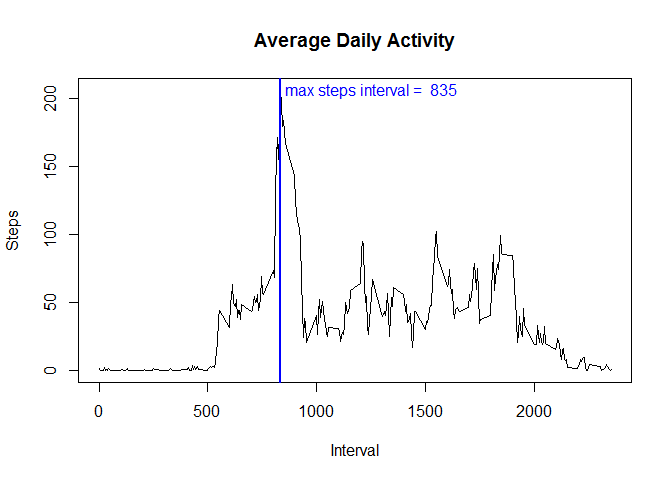
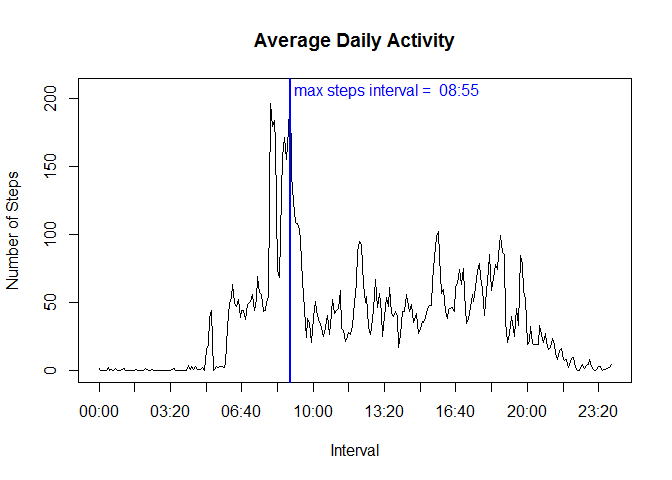
Fixed interval values; Fixed not averaging days for weekend/weekend graph.

diff --git a/PA1_template.html b/PA1_template.html
@@ -66,7 +66,22 @@ img {
 
 <div id="loading-and-preprocessing-the-data" class="section level2">
 <h2>Loading and preprocessing the data</h2>
-<pre class="r"><code>activityData &lt;- read.csv('activity/activity.csv', na.strings = &quot;NA&quot;)</code></pre>
+<p>Load the data and add a new column called intervalTime. intervalTime is cleaned version of interval.</p>
+<pre class="r"><code>ORIGIN = &quot;2015-10-21&quot;
+TZ = &quot;UTC&quot;
+activityData &lt;- read.csv('activity/activity.csv', na.strings = &quot;NA&quot;)
+
+setIntervalTime &lt;- function(row) {
+  totalMinutes &lt;- as.integer(row[3])
+  hours &lt;- totalMinutes %/% 100
+  minutes &lt;- totalMinutes %% 60
+  
+  timeStr &lt;- sprintf(&quot;%02d:%02d&quot;, hours, minutes) 
+  intervalTime_lt &lt;- strptime(timeStr, &quot;%H:%M&quot;)
+  return(as.POSIXct(intervalTime_lt, origin = ORIGIN, tz = TZ))
+}
+
+activityData$intervalTime &lt;- apply(activityData, 1, setIntervalTime)</code></pre>
 </div>
 <div id="what-is-mean-total-number-of-steps-taken-per-day" class="section level2">
 <h2>What is mean total number of steps taken per day?</h2>
@@ -74,39 +89,49 @@ img {
                                FUN=sum, na.rm = TRUE)
 colnames(activityDataByDay)[2] &lt;- 'steps'
 
-hist(activityDataByDay$steps, main = &quot;Histogram of the Mean Steps by Day&quot;, xlab='Steps')
+hist(activityDataByDay$steps, main = &quot;Histogram of the Mean Steps by Day&quot;, xlab='Number of Steps')
 legend(&quot;topright&quot;, c(&quot;mean&quot;, &quot;median&quot;), col=c(&quot;blue&quot;, &quot;red&quot;), lwd=2, lty=c(1,2))
 
 meanStepsPerDay &lt;- mean(activityDataByDay$steps, na.rm = TRUE)
 abline(v = meanStepsPerDay, col = &quot;blue&quot;, lwd = 2)
 text(20, x=meanStepsPerDay, pos = 2, offset = 0.1, col = &quot;blue&quot;,
-     paste('mean = ', format(meanStepsPerDay, digits = 7)))
+     paste('mean = ', format(round(meanStepsPerDay, 2), nsmall = 2)))
 
 medianStepsPerDay &lt;- median(activityDataByDay$steps, na.rm = TRUE)
 abline(v = medianStepsPerDay, col = &quot;red&quot;, lwd = 2, lty=2)
 text(15, x=medianStepsPerDay, pos = 4, offset = 0.1, col = &quot;red&quot;,
-     paste('median = ', format(medianStepsPerDay, digits = 7)))</code></pre>
[1 lines of base64/hex data omitted]
+     paste('median = ', format(round(medianStepsPerDay, 2), nsmall = 2)))</code></pre>
[1 lines of base64/hex data omitted]
 <p>The mean is 9354.23 and the median is 10395.</p>
 </div>
 <div id="what-is-the-average-daily-activity-pattern" class="section level2">
 <h2>What is the average daily activity pattern?</h2>
 <pre class="r"><code>activityDataByInterval &lt;- aggregate(activityData$steps, 
-                                    by=list(interval = activityData$interval), 
+                                    by=list(intervalTime = activityData$intervalTime), 
                                     FUN=mean, na.rm = TRUE)
 colnames(activityDataByInterval)[2] &lt;- 'steps'
 
 maxIntervalSteps &lt;- max(activityDataByInterval$steps)
 maxIntervalStepsIdx &lt;- which.max(activityDataByInterval$steps) 
-maxInterval &lt;- activityDataByInterval$interval[maxIntervalStepsIdx]
+maxIntervalTime &lt;- activityDataByInterval$intervalTime[maxIntervalStepsIdx]
+maxIntervalStr &lt;- sprintf(&quot;%s&quot;, format(as.POSIXct(maxIntervalTime, 
+                                            origin = ORIGIN, tz = TZ), &quot;%H:%M&quot;))
 
-plot(x = activityDataByInterval$interval, y = activityDataByInterval$steps, type=&quot;l&quot;,
-      main = &quot;Average Daily Activity&quot;, xlab = &quot;Interval&quot;, ylab = &quot;Steps&quot;)
-abline(v = maxInterval, col = &quot;blue&quot;, lwd = 2)
-text(maxIntervalSteps, x=maxInterval, pos = 4, offset = 0.25, col = &quot;blue&quot;,
-     paste('max steps interval = ', format(maxInterval, digits = 7)))</code></pre>
[1 lines of base64/hex data omitted]
-<p>The max number of steps is 206.17 at interval, 835.</p>
+plot(x = activityDataByInterval$intervalTime, 
+     y = activityDataByInterval$steps, type=&quot;l&quot;, xaxt=&quot;n&quot;,
+    main = &quot;Average Daily Activity&quot;, xlab = &quot;Interval&quot;, ylab = &quot;Number of Steps&quot;)
+
+xaxis &lt;- activityDataByInterval$intervalTime[seq(1, 
+                                                 length(activityDataByInterval$intervalTime), 20)]
+axis(1, at=xaxis,
+     labels=sprintf(&quot;%s&quot;, format(as.POSIXct(xaxis, 
+                                            origin = ORIGIN, tz = TZ), &quot;%H:%M&quot;)))
+
+abline(v = maxIntervalTime, col = &quot;blue&quot;, lwd = 2)
+text(maxIntervalSteps, x=maxIntervalTime, pos = 4, offset = 0.25, col = &quot;blue&quot;,
+     paste('max steps interval = ', maxIntervalStr))</code></pre>
[1 lines of base64/hex data omitted]
+<p>The maximum number of steps is 206.17 at interval, 08:55.</p>
 </div>
 <div id="imputing-missing-values" class="section level2">
 <h2>Imputing missing values</h2>
@@ -126,11 +151,11 @@ text(maxIntervalSteps, x=maxInterval, pos = 4, offset = 0.25, col = &quot;blue&q
 ## 
 ##     intersect, setdiff, setequal, union</code></pre>
 <pre class="r"><code>activityDataByInterval &lt;- aggregate(activityData$steps, 
-                                    by=list(interval = activityData$interval), 
+                                    by=list(intervalTime = activityData$intervalTime), 
                                     FUN=mean, na.rm = TRUE)
 colnames(activityDataByInterval)[2] &lt;- 'meanSteps'
 
-activityData2 &lt;- merge(activityData, activityDataByInterval, by=&quot;interval&quot;)
+activityData2 &lt;- merge(activityData, activityDataByInterval, by=&quot;intervalTime&quot;)
 activityData2 &lt;- mutate(activityData2, imputedSteps = ifelse(is.na(steps), meanSteps, steps))</code></pre>
 <p>Plot histogram.</p>
 <pre class="r"><code>activityDataByDay2 &lt;- aggregate(activityData2$imputedSteps, 
@@ -155,8 +180,6 @@ text(15, x=medianStepsPerDay, pos = 4, offset = 0.1, col = &quot;red&quot;,
 </div>
 <div id="are-there-differences-in-activity-patterns-between-weekdays-and-weekends" class="section level2">
 <h2>Are there differences in activity patterns between weekdays and weekends?</h2>
-<pre class="r"><code>library(lubridate)</code></pre>
-<pre><code>## Warning: package 'lubridate' was built under R version 3.2.1</code></pre>
 <pre class="r"><code>isWeekday &lt;- function(d) {
   day &lt;- weekdays(as.Date(d, format=&quot;%Y-%m-%d&quot;))
 
@@ -170,10 +193,22 @@ text(15, x=medianStepsPerDay, pos = 4, offset = 0.1, col = &quot;red&quot;,
 activityData2$dayType = sapply(activityData$date, isWeekday)
 
 library(lattice) 
-xyplot(activityData2$imputedSteps~activityData2$interval|activityData2$dayType, 
-   ylab=&quot;Number of Steps&quot;, xlab=&quot;Interval&quot;, type=&quot;l&quot;,
-   layout = c(1,2))</code></pre>
[1 lines of base64/hex data omitted]
+
+xaxis &lt;- activityData2$intervalTime[seq(1, length(activityData2$intervalTime), 2110)]
+xaxisFormatted &lt;- sprintf(&quot;%s&quot;, format(as.POSIXct(xaxis, 
+                                            origin = ORIGIN, tz = TZ), &quot;%H:%M&quot;))
+                          
+scales &lt;-list(
+     x = list(
+            at = xaxis,
+            labels = xaxisFormatted))                            
+
+xyplot(activityData2$imputedSteps~activityData2$intervalTime|activityData2$dayType, 
+   ylab=&quot;Number of Steps&quot;, xlab=&quot;Interval&quot;, type=&quot;l&quot;, layout = c(1,2)
+   ,
+   scales = scales
+   )</code></pre>
[1 lines of base64/hex data omitted]
 </div>
 
 

diff --git a/PA1_template.md b/PA1_template.md
@@ -2,9 +2,25 @@
 
 
 ## Loading and preprocessing the data
+Load the data and add a new column called intervalTime. intervalTime is cleaned version
+of interval.
 
 ```r
+ORIGIN = "2015-10-21"
+TZ = "UTC"
 activityData <- read.csv('activity/activity.csv', na.strings = "NA")
+
+setIntervalTime <- function(row) {
+  totalMinutes <- as.integer(row[3])
+  hours <- totalMinutes %/% 100
+  minutes <- totalMinutes %% 60
+  
+  timeStr <- sprintf("%02d:%02d", hours, minutes) 
+  intervalTime_lt <- strptime(timeStr, "%H:%M")
+  return(as.POSIXct(intervalTime_lt, origin = ORIGIN, tz = TZ))
+}
+
+activityData$intervalTime <- apply(activityData, 1, setIntervalTime)
 ```
 
 
@@ -15,18 +31,18 @@ activityDataByDay <- aggregate(activityData$steps, by=list(date = activityData$d
                                FUN=sum, na.rm = TRUE)
 colnames(activityDataByDay)[2] <- 'steps'
 
-hist(activityDataByDay$steps, main = "Histogram of the Mean Steps by Day", xlab='Steps')
+hist(activityDataByDay$steps, main = "Histogram of the Mean Steps by Day", xlab='Number of Steps')
 legend("topright", c("mean", "median"), col=c("blue", "red"), lwd=2, lty=c(1,2))
 
 meanStepsPerDay <- mean(activityDataByDay$steps, na.rm = TRUE)
 abline(v = meanStepsPerDay, col = "blue", lwd = 2)
 text(20, x=meanStepsPerDay, pos = 2, offset = 0.1, col = "blue",
-     paste('mean = ', format(meanStepsPerDay, digits = 7)))
+     paste('mean = ', format(round(meanStepsPerDay, 2), nsmall = 2)))
 
 medianStepsPerDay <- median(activityDataByDay$steps, na.rm = TRUE)
 abline(v = medianStepsPerDay, col = "red", lwd = 2, lty=2)
 text(15, x=medianStepsPerDay, pos = 4, offset = 0.1, col = "red",
-     paste('median = ', format(medianStepsPerDay, digits = 7)))
+     paste('median = ', format(round(medianStepsPerDay, 2), nsmall = 2)))
 ```
 
 ![](PA1_template_files/figure-html/unnamed-chunk-2-1.png) 
@@ -37,24 +53,34 @@ The mean is 9354.23 and the median is 10395.
 
 ```r
 activityDataByInterval <- aggregate(activityData$steps, 
-                                    by=list(interval = activityData$interval), 
+                                    by=list(intervalTime = activityData$intervalTime), 
                                     FUN=mean, na.rm = TRUE)
 colnames(activityDataByInterval)[2] <- 'steps'
 
 maxIntervalSteps <- max(activityDataByInterval$steps)
 maxIntervalStepsIdx <- which.max(activityDataByInterval$steps) 
-maxInterval <- activityDataByInterval$interval[maxIntervalStepsIdx]
+maxIntervalTime <- activityDataByInterval$intervalTime[maxIntervalStepsIdx]
+maxIntervalStr <- sprintf("%s", format(as.POSIXct(maxIntervalTime, 
+                                            origin = ORIGIN, tz = TZ), "%H:%M"))
 
-plot(x = activityDataByInterval$interval, y = activityDataByInterval$steps, type="l",
-      main = "Average Daily Activity", xlab = "Interval", ylab = "Steps")
-abline(v = maxInterval, col = "blue", lwd = 2)
-text(maxIntervalSteps, x=maxInterval, pos = 4, offset = 0.25, col = "blue",
-     paste('max steps interval = ', format(maxInterval, digits = 7)))
+plot(x = activityDataByInterval$intervalTime, 
+     y = activityDataByInterval$steps, type="l", xaxt="n",
+    main = "Average Daily Activity", xlab = "Interval", ylab = "Number of Steps")
+
+xaxis <- activityDataByInterval$intervalTime[seq(1, 
+                                                 length(activityDataByInterval$intervalTime), 20)]
+axis(1, at=xaxis,
+     labels=sprintf("%s", format(as.POSIXct(xaxis, 
+                                            origin = ORIGIN, tz = TZ), "%H:%M")))
+
+abline(v = maxIntervalTime, col = "blue", lwd = 2)
+text(maxIntervalSteps, x=maxIntervalTime, pos = 4, offset = 0.25, col = "blue",
+     paste('max steps interval = ', maxIntervalStr))
 ```
 
 ![](PA1_template_files/figure-html/unnamed-chunk-3-1.png) 
 
-The max number of steps is 206.17 at interval, 835.
+The maximum number of steps is 206.17 at interval, 08:55.
 
 ## Imputing missing values
 Number of rows with missing values:
@@ -88,11 +114,11 @@ library(dplyr)
 
 ```r
 activityDataByInterval <- aggregate(activityData$steps, 
-                                    by=list(interval = activityData$interval), 
+                                    by=list(intervalTime = activityData$intervalTime), 
                                     FUN=mean, na.rm = TRUE)
 colnames(activityDataByInterval)[2] <- 'meanSteps'
 
-activityData2 <- merge(activityData, activityDataByInterval, by="interval")
+activityData2 <- merge(activityData, activityDataByInterval, by="intervalTime")
 activityData2 <- mutate(activityData2, imputedSteps = ifelse(is.na(steps), meanSteps, steps))
 ```
 
@@ -125,14 +151,6 @@ The mean is 10766.19 and the median is 10766.19. The main difference between the
 ## Are there differences in activity patterns between weekdays and weekends?
 
 ```r
-library(lubridate)
-```
-
-```
-## Warning: package 'lubridate' was built under R version 3.2.1
-```
-
-```r
 isWeekday <- function(d) {
   day <- weekdays(as.Date(d, format="%Y-%m-%d"))
 
@@ -146,9 +164,21 @@ isWeekday <- function(d) {
 activityData2$dayType = sapply(activityData$date, isWeekday)
 
 library(lattice) 
-xyplot(activityData2$imputedSteps~activityData2$interval|activityData2$dayType, 
-   ylab="Number of Steps", xlab="Interval", type="l",
-   layout = c(1,2))
+
+xaxis <- activityData2$intervalTime[seq(1, length(activityData2$intervalTime), 2110)]
+xaxisFormatted <- sprintf("%s", format(as.POSIXct(xaxis, 
+                                            origin = ORIGIN, tz = TZ), "%H:%M"))
+                          
+scales <-list(
+     x = list(
+            at = xaxis,
+            labels = xaxisFormatted))                            
+
+xyplot(activityData2$imputedSteps~activityData2$intervalTime|activityData2$dayType, 
+   ylab="Number of Steps", xlab="Interval", type="l", layout = c(1,2)
+   ,
+   scales = scales
+   )
 ```
 
 ![](PA1_template_files/figure-html/unnamed-chunk-7-1.png) 
